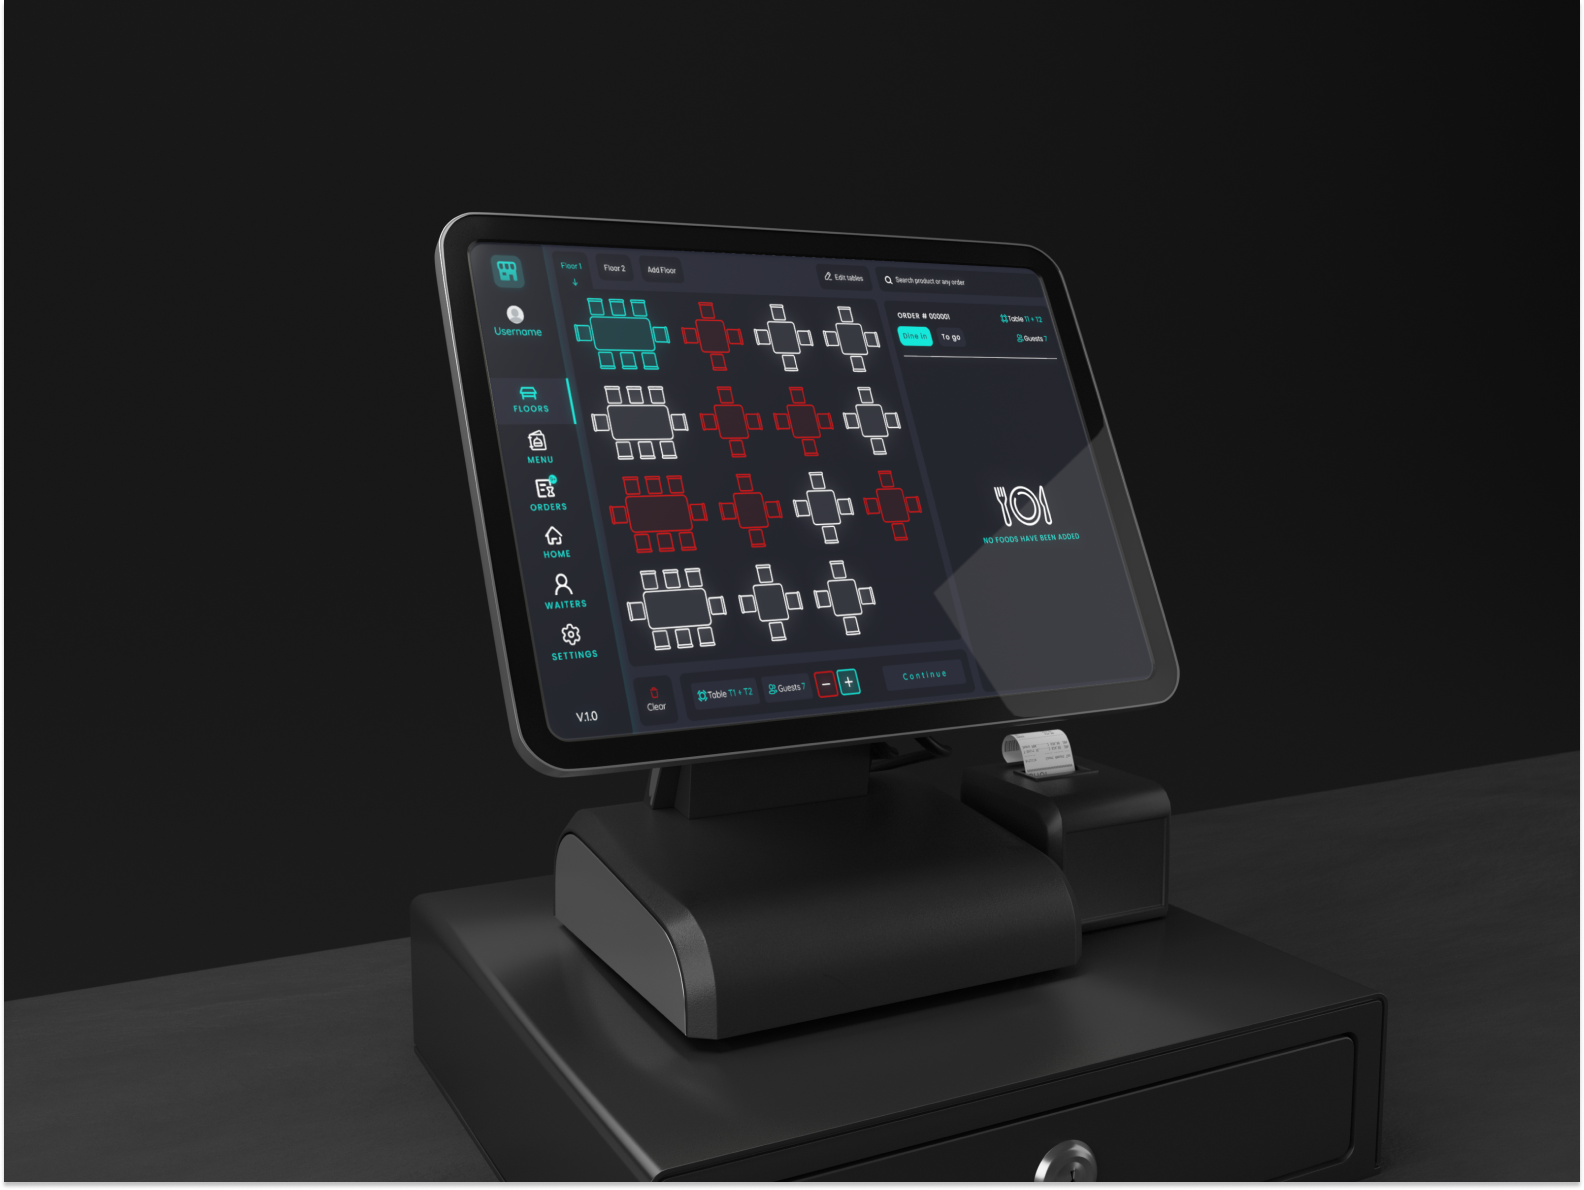
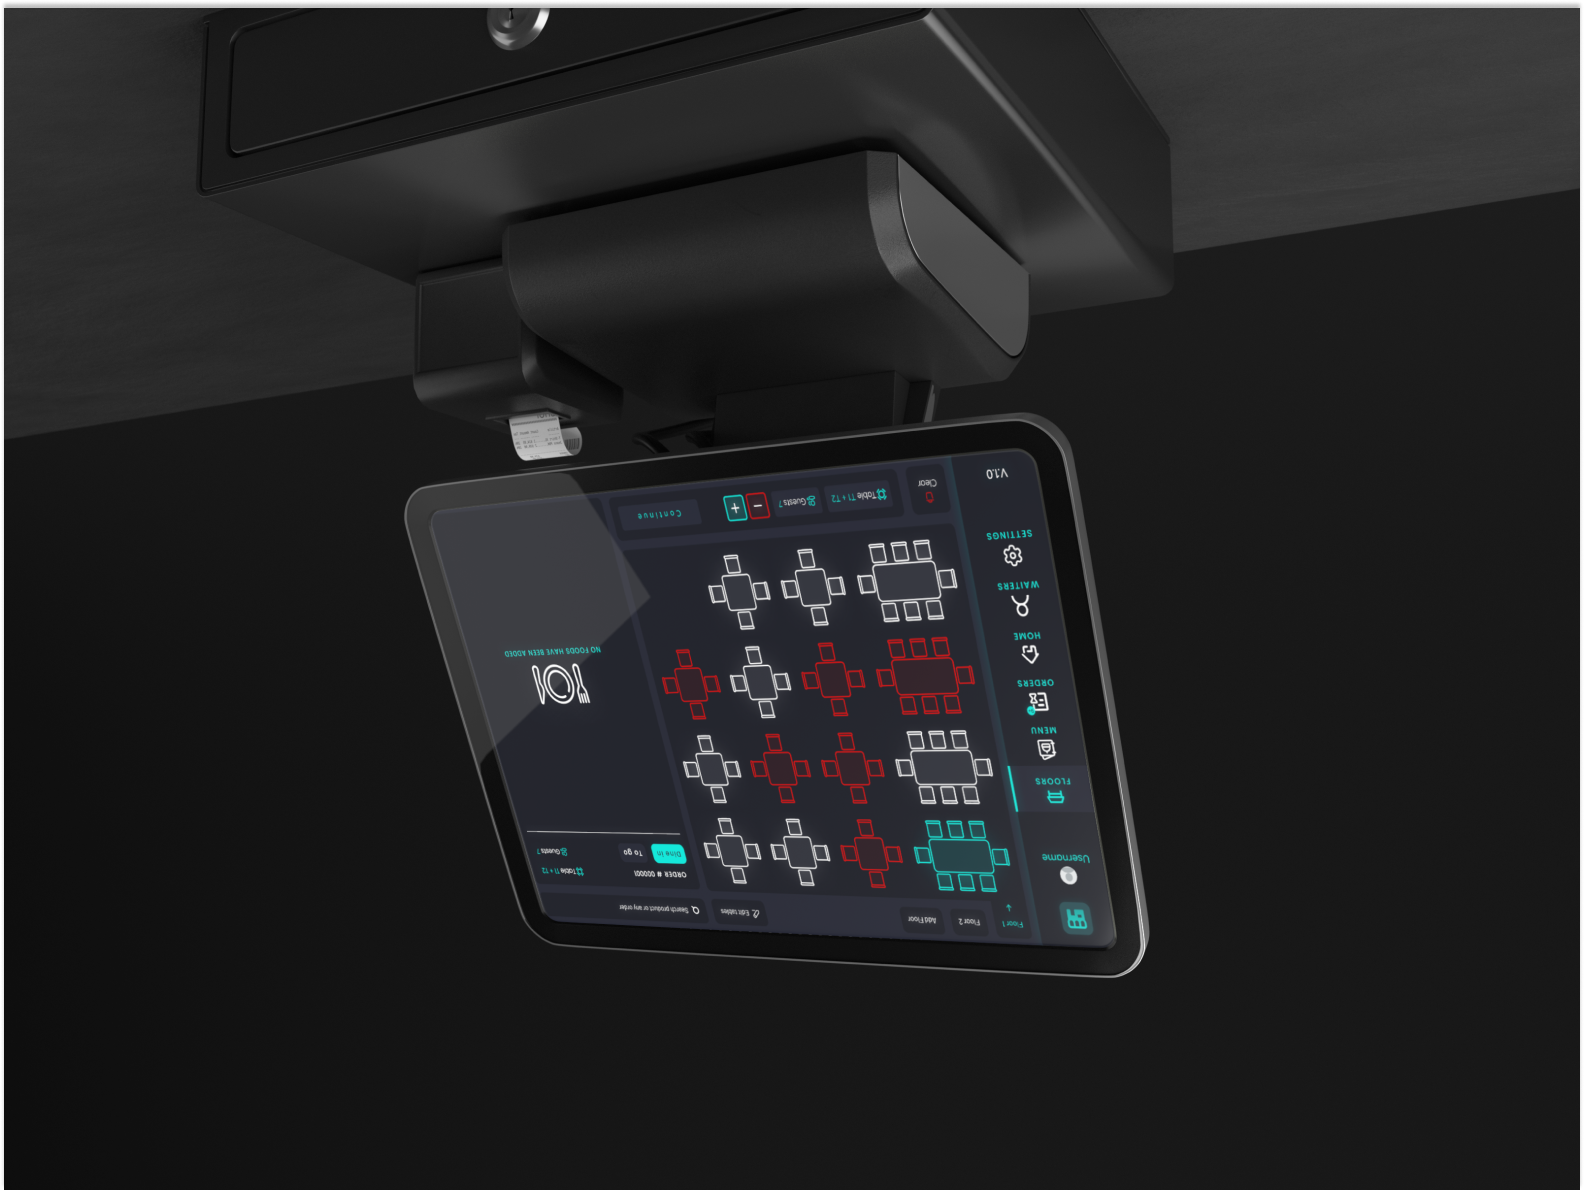
laptopmodel

diff --git a/app/components/Models/Laptop.jsx b/app/components/Models/Laptop.jsx
@@ -1,13 +1,17 @@
 'use client'
 import * as THREE from 'three'
 import React, { Suspense, useEffect, useRef, useState } from 'react'
-import { Canvas, useFrame } from '@react-three/fiber'
+import { Canvas, useFrame, useLoader } from '@react-three/fiber'
 import { Environment, useGLTF, ContactShadows } from '@react-three/drei'
 import { useSpring } from '@react-spring/core'
 import { a as three } from '@react-spring/three'
 import { a as web } from '@react-spring/web'
+import { TextureLoader } from 'three/src/loaders/TextureLoader' 
 
-function Model({ open, hinge, ...props }) {
+function Model({ open,img, hinge, ...props }) {
+
+const texture_1 = useLoader(TextureLoader,img)
+
   const group = useRef()
   const { nodes, materials } = useGLTF('/mac-draco.glb')
   const [hovered, setHovered] = useState(false)
@@ -25,7 +29,11 @@ function Model({ open, hinge, ...props }) {
         <group position={[0, 2.96, -0.13]} rotation={[Math.PI / 2, 0, 0]}>
           <mesh material={materials.aluminium} geometry={nodes['Cube008'].geometry} />
           <mesh material={materials['matte.001']} geometry={nodes['Cube008_1'].geometry} />
-          <mesh material={materials['screen.001']} geometry={nodes['Cube008_2'].geometry} />
+          {/* <mesh material={materials['screen.001']} geometry={nodes['Cube008_2'].geometry} /> */}
+          <mesh material={materials['screen.001']} geometry={nodes['Cube008_2'].geometry}>
+          <meshBasicMaterial map={texture_1} />
+          </mesh>
+
         </group>
       </three.group>
       <mesh material={materials.keys} geometry={nodes.keyboard.geometry} position={[1.79, 0, 3.45]} />
@@ -38,7 +46,7 @@ function Model({ open, hinge, ...props }) {
   )
 }
 
-const Laptop = () => {
+const Laptop = ({img}) => {
   const [open, setOpen] = useState(true)
   const props = useSpring({ open: Number(open) })
   return (
@@ -47,7 +55,7 @@ const Laptop = () => {
         <three.pointLight position={[10, 10, 10]} intensity={1.5} color={props.open.to([0, 1], ['#f0f0f0', '#d25578'])} />
         <Suspense fallback={null}>
           <group rotation={[0, Math.PI, 0]} onClick={(e) => (e.stopPropagation(), setOpen(!open))}>
-            <Model open={open} hinge={props.open.to([0, 1], [1.575, -0.425])} />
+            <Model open={open} hinge={props.open.to([0, 1], [1.575, -0.425])} img={img}/>
           </group>
           <Environment preset="city" />
         </Suspense>

diff --git a/app/utils/data.js b/app/utils/data.js
@@ -57,21 +57,24 @@ export const achievemnts = [
 export const projects = [
   {
       name: "Hak Bus",
-      url: "/work/hakbus",
+      // url: "/work/hakbus",
+      url:'https://www.hakbus.net',
       description: "Hakbus is an online platform that allows users to conveniently book bus tickets from the comfort of their homes. Experience seamless ticket booking and travel planning through this user-friendly website.",
       image: '/img5_.jpg',
       tech:['Web Design','Development','Mobile App']
   },
   {
       name: "Insylink",
-      url: "/work/insylink",
+      // url: "/work/insylink",
+      url:'https://www.insylink.com',
       description: "Insylink is a point-of-sale (POS) system designed specifically for restaurants, streamlining operations and enhancing customer service. Manage orders, track inventory, and analyze sales data efficiently with this versatile solution.",
       image: '/img4_.jpg',
       tech:['Branding','Web Design','Development','Mobile App']
   },
   {
       name: "Lans-Gr",
-      url: "/work/lans-gr",
+      // url: "/work/lans-gr",
+      url:'https://www.lans-gr.com',
       description: "Lans-Gr specializes in crafting high-quality shutters for homes and businesses. Our website showcases our extensive range of shutter options, allowing customers to find the perfect fit for their spaces with ease.",
       image: '/lansmockup.jpg',
       tech:['Branding','Web Design','Development']

diff --git a/app/components/Project.jsx b/app/components/Project.jsx
@@ -11,14 +11,14 @@ const Project = ({project}) => {
             <div className='absolute z-[0] w-[300px] h-[300px] m-auto top-0 right-0 left-0 bottom-0 main__gradient blur-3xl hidden lg:block'/>
               {/* <Image alt="project image" src={project.image} width={400} height={400} className="absolute m-auto top-0 left-0 right-0 bottom-0 rounded-3xl hidden lg:block object-cover"/> */}
               <div className="hidden lg:block -translate-y-[200px] translate-x-[70px]">
-              <Laptop />
+              <Laptop img={project?.image}/>
               </div>
 
             <h1 className="font-bold text-transparent bg-clip-text bg-gradient-to-r from-violet-400 to-blue-300 text-5xl md:text-6xl lg:text-[120px] xl:text-[140px] 2xl:text-[170px] whitespace-nowrap trackign-wider text-center max-w-3xl">{project?.name}</h1>
             </div>
             {/* <Image alt="project image" src={project.image} width={400} height={400} className="rounded-3xl block lg:hidden object-cover"/> */}
             <div className="flex justify-center items-start lg:hidden w-full h-full -translate-y-[230px]">
-            <Laptop />
+            <Laptop img={project?.image}/>
             </div>
            <div className="flex flex-col gap-10">
            <p className="text-gray-700 font-medium text-base sm:text-lg md:text-xl lg:text-2xl xl:text-3xl text-center max-w-3xl font-poppins">

diff --git a/app/components/ContactPage/Contact.jsx b/app/components/ContactPage/Contact.jsx
@@ -57,7 +57,7 @@ const Contact = () => {
                 <textarea type="text" className="border-b focus:border-b-[#00b2d1]  bg-transparent text-white font-medium font-poppins text-lg outline-none resize-none" rows={2} name="user__message"/>
                 </div>
             </div>
-            <div className="flex justify-between items-baseline w-full">
+            <div className="flex flex-col gap-6 sm:flex-row justify-between items-baseline w-full">
                 <div className="flex items-center gap-2">
                     <input type="checkbox" className="accent-[#00b2d1] h-4 w-4 cursor-pointer rounded-xl" name="" id="" onChange={()=>setAccepted(!accepted)}/>
                     <p className="text-base font-normal text-gray-300 max-w-3xl mt-5">By submitting this form and making your data available, you expressly consent to its treatment to manage future contacts and responding to requests sent. </p>
